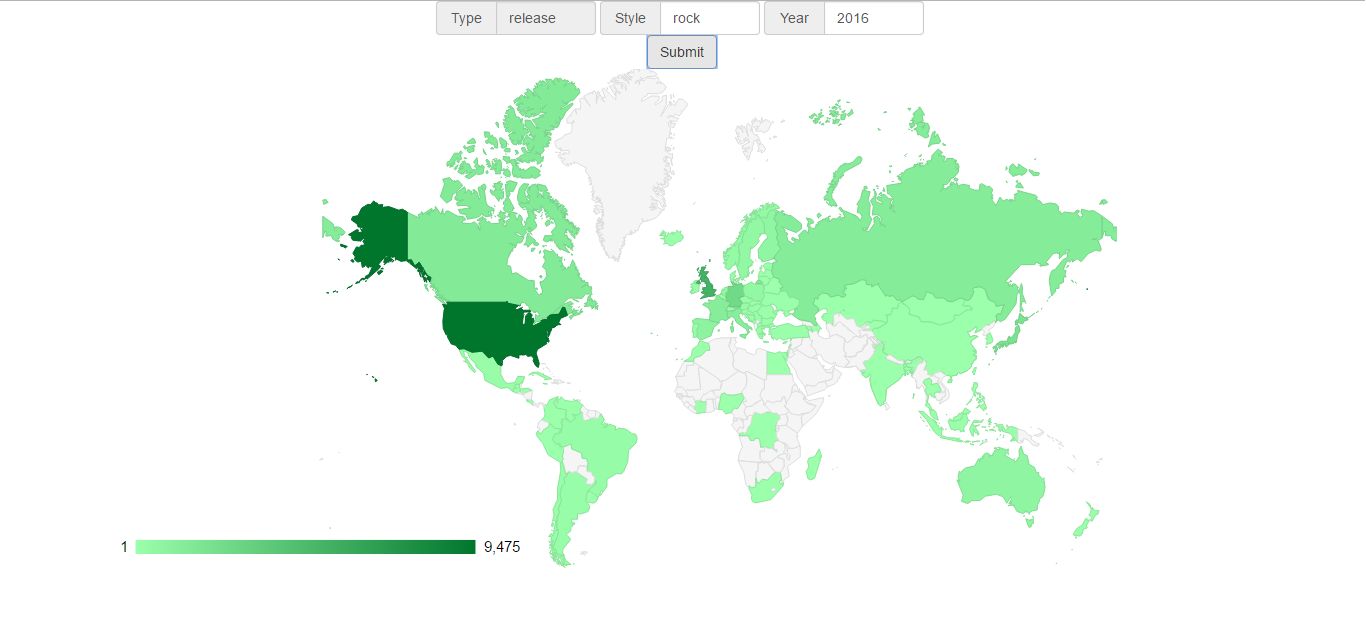
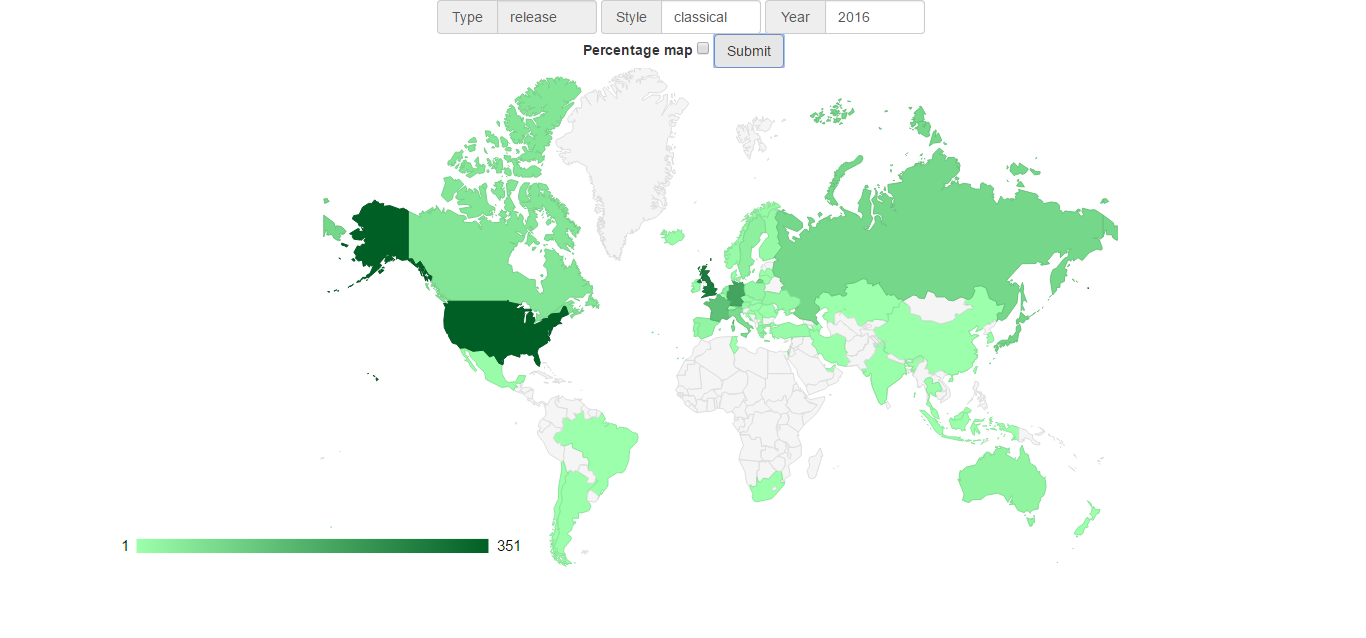
5_week

diff --git a/modules/templates/mapchart.html b/modules/templates/mapchart.html
@@ -12,7 +12,7 @@
 </head>
 <body>
 <div class="container">
-    <form class="form-inline", role="form", method="post", style="text-align: center">
+    <form class="form-inline" role="form" method="post" style="text-align: center">
         <div class="input-group">
             <div class="input-group-addon" style="width: 60px">Type</div>
             <input type="text" name="type" class="form-control" value="release" style="width: 100px" required disabled>

diff --git a/modules/static/mapchart.js b/modules/static/mapchart.js
@@ -7,7 +7,7 @@ function get_chart() {
             type: $('input[name="type"]').val(),
             style: $('input[name="style"]').val(),
             year: $('input[name="year"]').val(),
-            is_percentage: $('input[name="percentage"]').val()//$('#percentage').val() //$('#percentage').is(':checked')
+            percentage: $('#percentage').is(':checked')
         },
         success: function(data) {
             draw(data.result)

diff --git a/modules/run.py b/modules/run.py
@@ -18,12 +18,11 @@ def build_mapchart():
     type = request.args.get('type', 0, type=str)
     style = request.args.get('style', 0, type=str)
     year = int(request.args.get('year', 0, type=int))
-    is_percentage = request.args.get("is_percentage", 0, type=bool)
-    print(is_percentage)
+    is_percentage = request.args.get("percentage", 0, type=str)
 
     process = map_process.ProcessMap(client, "countries.txt")
     process.request_values("", read_file="style-countries.txt", type=type, style=style, year=year)
-    if is_percentage:
+    if is_percentage == "true":
         process.request_additional("", read_file="style-countries.txt", type=type, year=year)
         data = process.percentage_list()
         data.insert(0, ["Country", "Percentage"])
